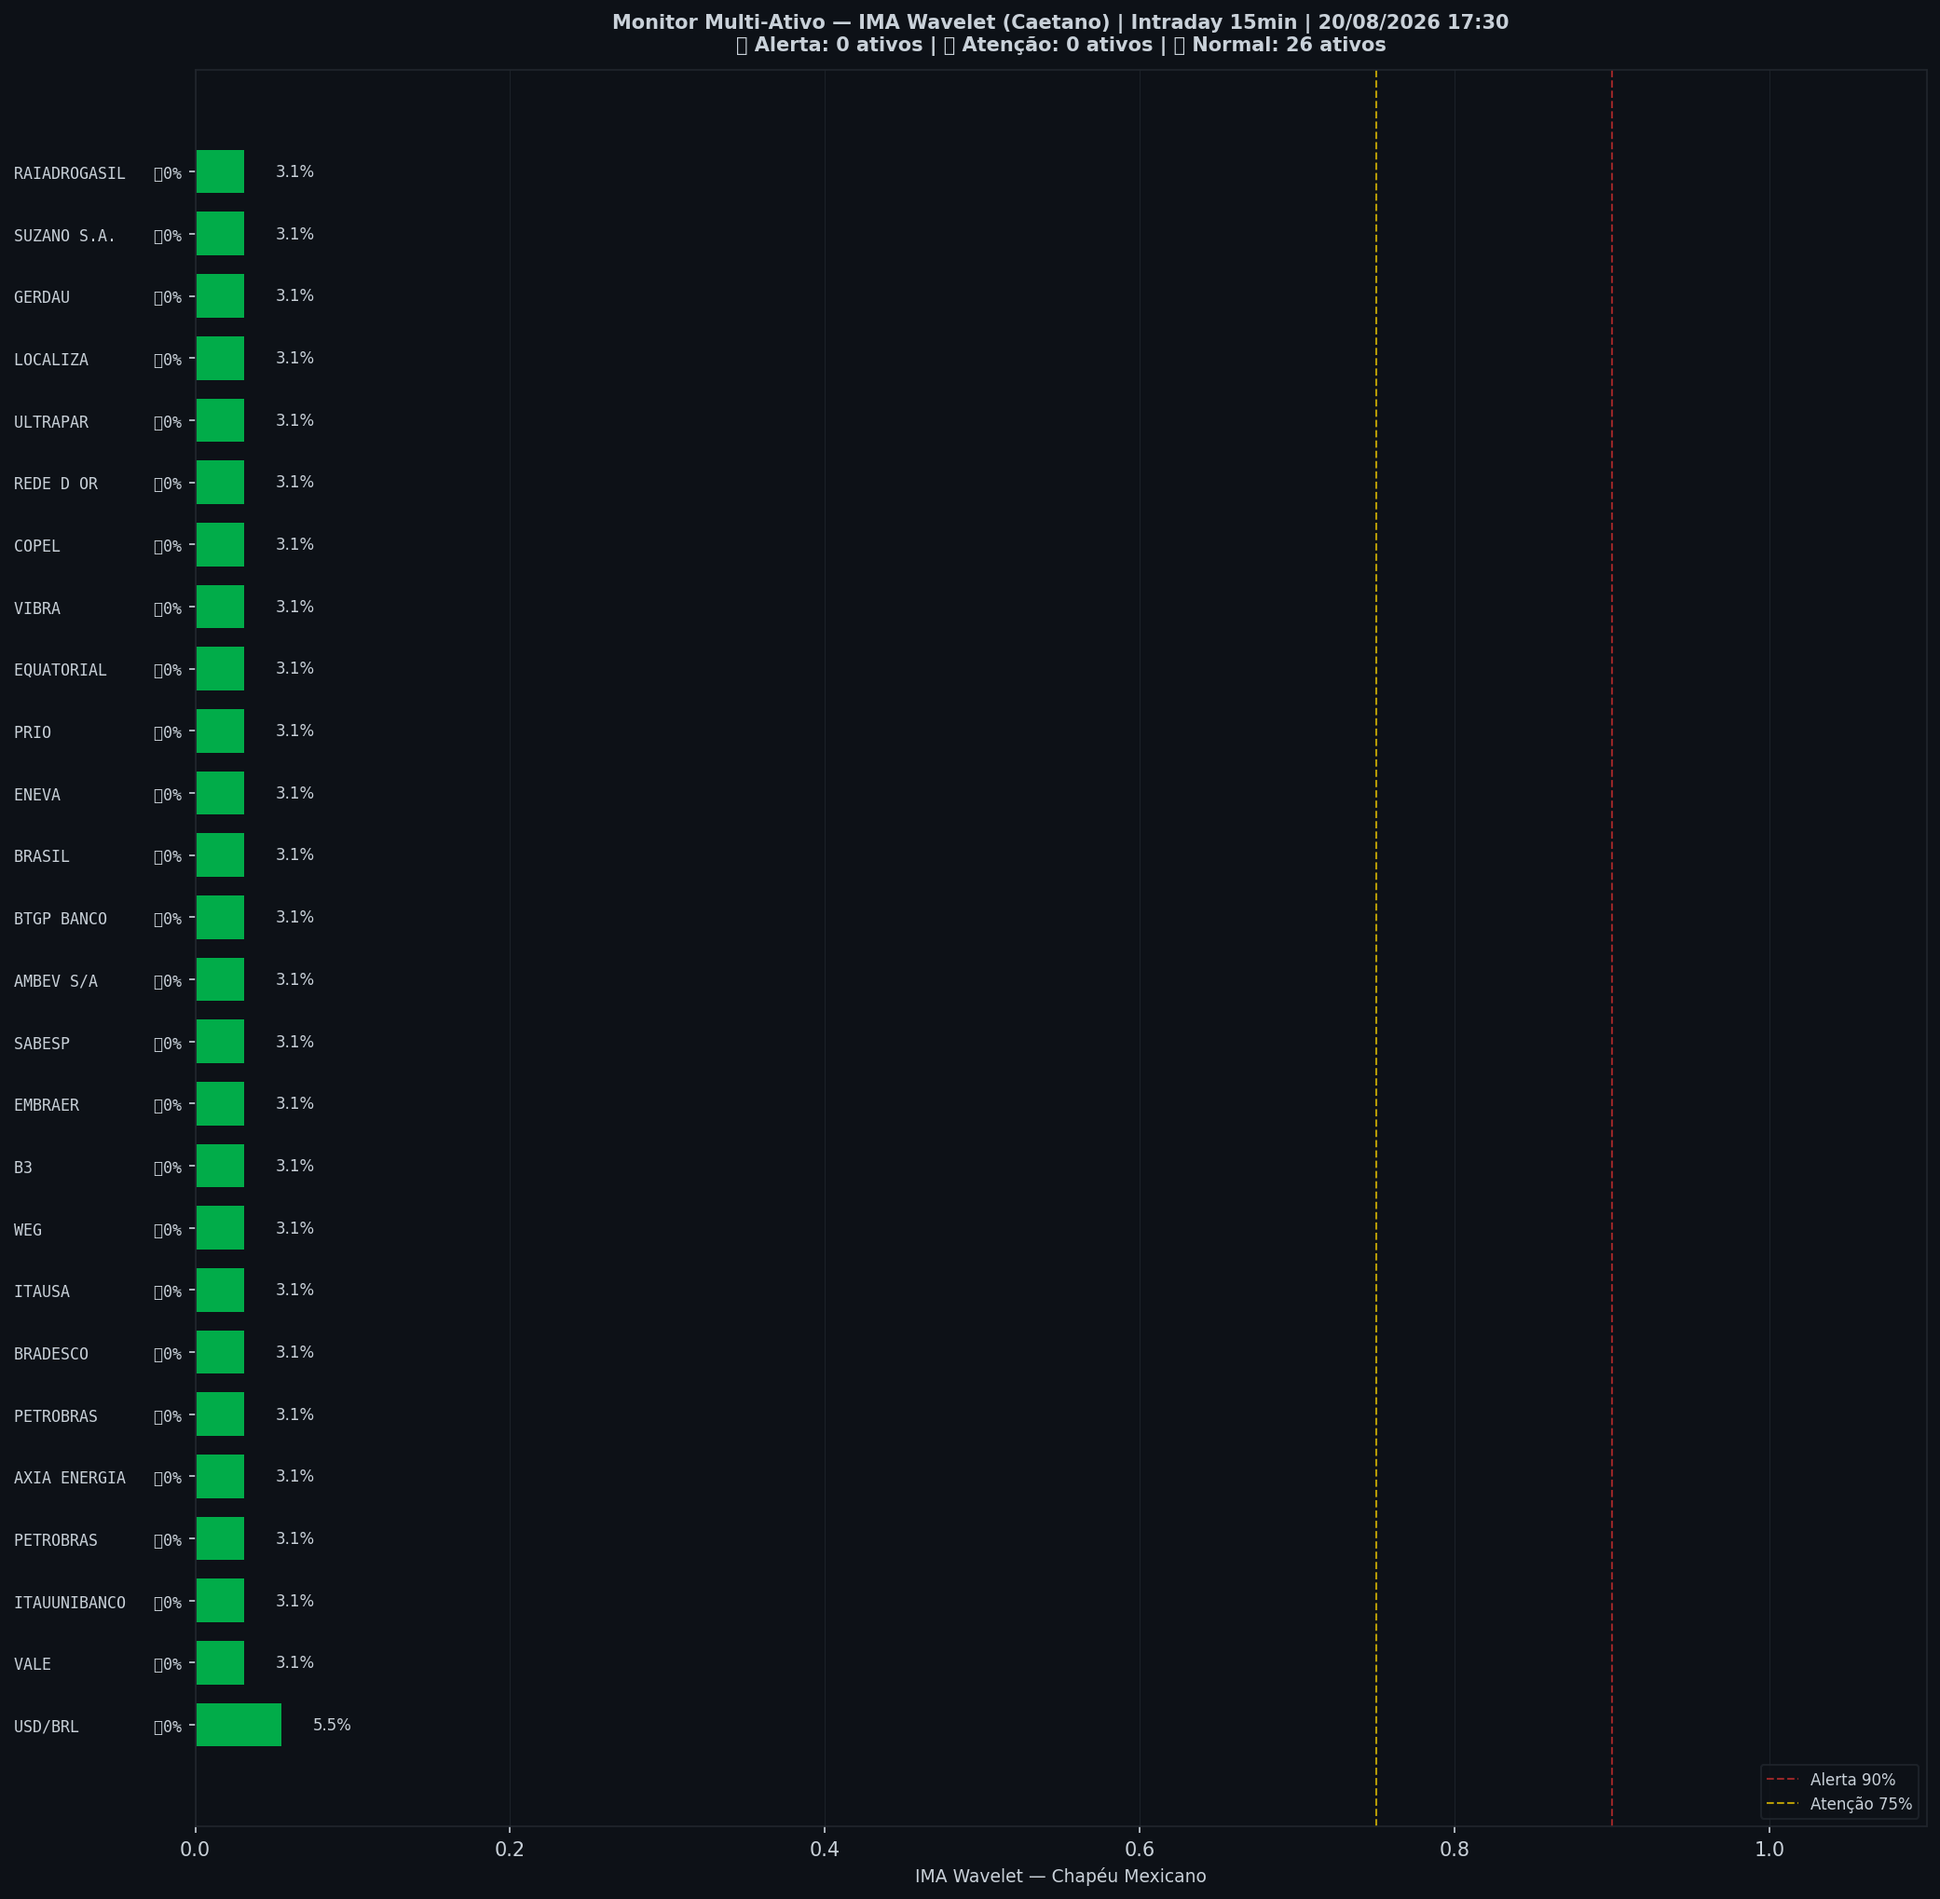
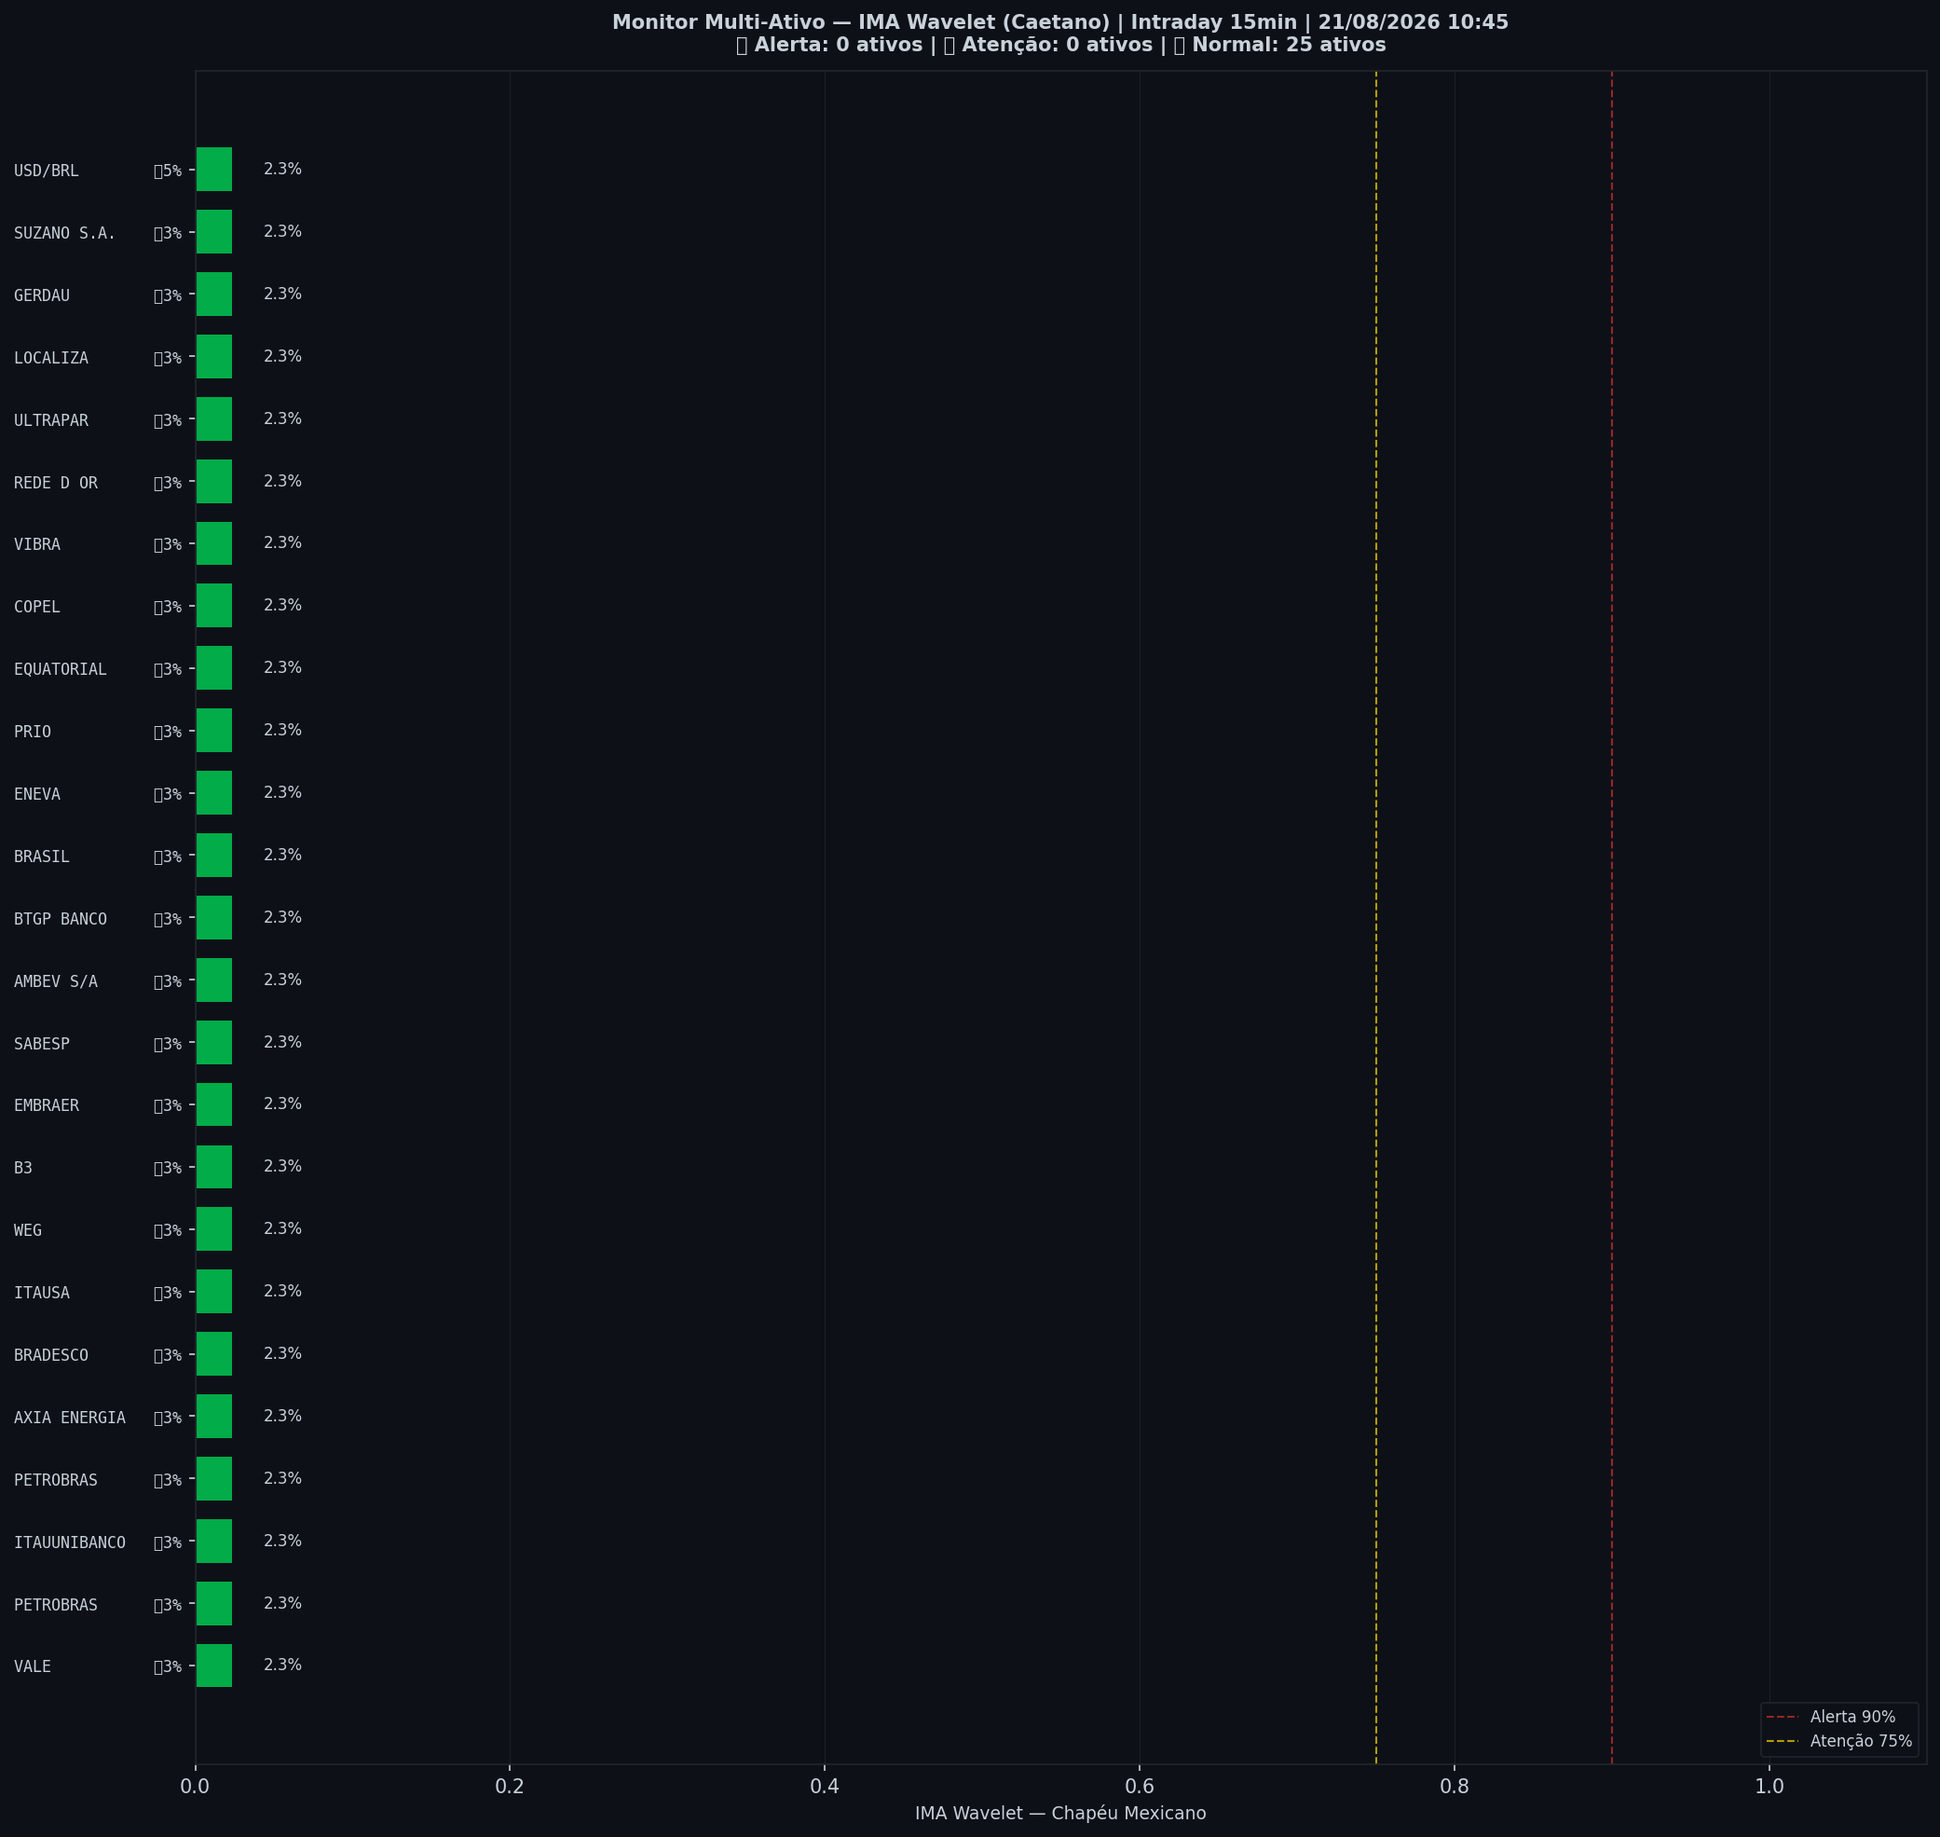
🤖 Auto: Sinal 21/08/2026 10:45

diff --git a/content/intraday/2026-08-21.md b/content/intraday/2026-08-21.md
@@ -1,0 +1,103 @@
+---
+title: "🟢 Intraday 21/08/2026 10:00 BRT — VERDE"
+date: 2026-08-21
+tags: [intraday]
+---
+
+> [!success] 🟢 **VERDE** — Risco 2% · ▲ +2 p.p. vs leitura anterior
+> `░░░░░░░░░░░░░░░░░░░░`
+> Mercado sem sinais relevantes de estresse.
+
+
+| Indicador | Valor |
+|---|---|
+| 🔴 ζ Crash — severidade da queda em curso | **2%** |
+| 🔵 ζ Entrada — estrutura de fundo | 21% |
+| 🫧 LPPL DS-Confidence | 0% |
+| 📊 Ibovespa | 168.836 pts |
+
+![Gráfico do sinal](../graficos/sinal_intraday.png)
+
+## Últimos 30 pregões
+
+| Data | Zona | Risco | IMA Crash | Entrada | LPPL |
+|---|---|---|---|---|---|
+| 2026-08-21 10:00 | 🟢 VERDE | **2%** | 2% | 21% | 0% |
+| 2026-08-20 16:45 | 🟢 VERDE | **0%** | 0% | 22% | 0% |
+| 2026-08-20 16:30 | 🟢 VERDE | **0%** | 0% | 20% | 0% |
+| 2026-08-20 16:15 | 🟢 VERDE | **0%** | 0% | 15% | 0% |
+| 2026-08-20 16:00 | 🟢 VERDE | **0%** | 0% | 11% | 0% |
+| 2026-08-20 15:45 | 🟢 VERDE | **0%** | 0% | 11% | 0% |
+| 2026-08-20 15:30 | 🟢 VERDE | **0%** | 0% | 15% | 0% |
+| 2026-08-20 15:15 | 🟢 VERDE | **0%** | 0% | 16% | 0% |
+| 2026-08-20 15:00 | 🟢 VERDE | **0%** | 0% | 18% | 0% |
+| 2026-08-20 14:45 | 🟢 VERDE | **0%** | 0% | 18% | 0% |
+| 2026-08-20 14:30 | 🟢 VERDE | **0%** | 0% | 15% | 0% |
+| 2026-08-20 14:15 | 🟢 VERDE | **1%** | 1% | 12% | 0% |
+| 2026-08-20 14:00 | 🟢 VERDE | **1%** | 1% | 10% | 0% |
+| 2026-08-20 13:45 | 🟢 VERDE | **0%** | 0% | 7% | 0% |
+| 2026-08-20 13:30 | 🟢 VERDE | **3%** | 3% | 6% | 0% |
+| 2026-08-20 13:15 | 🟢 VERDE | **9%** | 9% | 4% | 0% |
+| 2026-08-20 13:00 | 🟢 VERDE | **16%** | 16% | 2% | 0% |
+| 2026-08-20 12:45 | 🟢 VERDE | **20%** | 20% | 1% | 0% |
+| 2026-08-20 12:30 | 🟢 VERDE | **21%** | 21% | 0% | 0% |
+| 2026-08-20 12:15 | 🟢 VERDE | **20%** | 20% | 0% | 0% |
+| 2026-08-20 12:00 | 🟢 VERDE | **16%** | 16% | 1% | 0% |
+| 2026-08-20 11:45 | 🟢 VERDE | **12%** | 12% | 2% | 0% |
+| 2026-08-20 11:30 | 🟢 VERDE | **8%** | 8% | 1% | 0% |
+| 2026-08-20 11:15 | 🟢 VERDE | **6%** | 6% | 0% | 0% |
+| 2026-08-20 11:00 | 🟢 VERDE | **5%** | 5% | 2% | 0% |
+| 2026-08-20 10:45 | 🟢 VERDE | **2%** | 2% | 3% | 0% |
+| 2026-08-20 10:30 | 🟢 VERDE | **2%** | 2% | 3% | 0% |
+| 2026-08-20 10:15 | 🟢 VERDE | **2%** | 2% | 3% | 0% |
+| 2026-08-20 10:00 | 🟢 VERDE | **2%** | 2% | 1% | 0% |
+| 2026-08-19 16:45 | 🟢 VERDE | **2%** | 2% | 1% | 0% |
+
+## Monitor Multi-Ativo
+
+**0% dos ativos em tensão** (0🔴 0🟡) — quanto mais ativos disparam juntos, mais confiável o sinal.
+
+| Zona | Ativo | Setor | IMA Crash | IMA Entrada |
+|---|---|---|---|---|
+| 🟢 | **VALE** | Mineração | 2.3% | 3.1% |
+| 🟢 | **PETROBRAS** | Petróleo | 2.3% | 3.1% |
+| 🟢 | **ITAUUNIBANCO** | Financeiro | 2.3% | 3.1% |
+| 🟢 | **PETROBRAS** | Petróleo | 2.3% | 3.1% |
+| 🟢 | **AXIA ENERGIA** | Energia | 2.3% | 3.1% |
+| 🟢 | **BRADESCO** | Financeiro | 2.3% | 3.1% |
+| 🟢 | **ITAUSA** | Financeiro | 2.3% | 3.1% |
+| 🟢 | **WEG** | Industrial | 2.3% | 3.1% |
+| 🟢 | **B3** | Financeiro | 2.3% | 3.1% |
+| 🟢 | **EMBRAER** | Outros | 2.3% | 3.1% |
+| 🟢 | **SABESP** | Saneamento | 2.3% | 3.1% |
+| 🟢 | **AMBEV S/A** | Consumo | 2.3% | 3.1% |
+| 🟢 | **BTGP BANCO** | Financeiro | 2.3% | 3.1% |
+| 🟢 | **BRASIL** | Financeiro | 2.3% | 3.1% |
+| 🟢 | **ENEVA** | Energia | 2.3% | 3.1% |
+| 🟢 | **PRIO** | Petróleo | 2.3% | 3.1% |
+| 🟢 | **EQUATORIAL** | Energia | 2.3% | 3.1% |
+| 🟢 | **COPEL** | Energia | 2.3% | 3.1% |
+| 🟢 | **VIBRA** | Energia | 2.3% | 3.1% |
+| 🟢 | **REDE D OR** | Saúde | 2.3% | 3.1% |
+| 🟢 | **ULTRAPAR** | Outros | 2.3% | 3.1% |
+| 🟢 | **LOCALIZA** | Aluguel | 2.3% | 3.1% |
+| 🟢 | **GERDAU** | Siderurgia | 2.3% | 3.1% |
+| 🟢 | **SUZANO S.A.** | Papel/Celulose | 2.3% | 3.1% |
+| 🟢 | **USD/BRL** | Câmbio | 2.3% | 4.7% |
+
+![Monitor multi-ativo](../graficos/multi_intraday.png)
+
+*Página atualizada em 21/08/2026 10:45 BRT (leitura da barra de 2026-08-21 10:00 BRT).*
+
+> [!info]- Como interpretar (clique para expandir)
+> - **ζ Crash**: fração dos coeficientes wavelet acima do corte (Caetano & Yoneyama 2009). Escala absoluta: ζ=0,90 = 90% dos coeficientes anômalos — historicamente, quedas com ζ≥0,90 foram mais fundas e mais longas. **Mede a severidade do movimento em curso, não prevê o início da queda.**
+> - **ζ Entrada**: coeficientes negativos além do corte — estrutura de fundo, possível região de compra.
+> - **LPPL DS-Confidence**: fração de janelas (60–504 pregões) em que o modelo de bolha de Sornette produz um ajuste válido. 30% já é relevante; acima de 50% é forte evidência de estrutura de bolha.
+> - **Zonas com histerese**: o sinal só muda de zona ao cruzar o limiar de entrada, e só volta ao cruzar o de saída — evita flip-flop diário.
+
+
+---
+*Sinal de Crise B3 v4 · IMA Wavelet ([Caetano & Yoneyama, Physica-A 2007](https://doi.org/10.1016/j.physa.2007.03.054)) + LPPL DS-Confidence (Sornette, ETH-Zurich) · [Metodologia](metodologia) · [Histórico](historico)*
+
+> [!quote]- Aviso
+> Estudo acadêmico. Não constitui recomendação de investimento.

diff --git a/content/index.md b/content/index.md
@@ -1,6 +1,6 @@
 ---
 title: Sinal de Crise B3
-date: 2026-08-20
+date: 2026-08-21
 tags: [home]
 ---
 
@@ -8,21 +8,21 @@ tags: [home]
 
 Monitoramento diário e intraday do Ibovespa — **IMA Wavelet** (Prof. Marco Antonio Leonel Caetano, ITA/INSPER) + **LPPL DS-Confidence** (Prof. Didier Sornette, ETH-Zurich).
 
-*Última atualização: 20/08/2026 19:00 BRT · ^BVSP · Diário D1 · v4*
+*Última atualização: 21/08/2026 10:45 BRT · ^BVSP · Intraday 15min · v4*
 
-> [!success] 🟢 **VERDE** — Risco 0% · ＝ +0 p.p. vs leitura anterior
+> [!success] 🟢 **VERDE** — Risco 2% · ▲ +2 p.p. vs leitura anterior
 > `░░░░░░░░░░░░░░░░░░░░`
 > Mercado sem sinais relevantes de estresse.
 
 
 | Indicador | Valor |
 |---|---|
-| 🔴 ζ Crash — severidade da queda em curso | **0%** |
-| 🔵 ζ Entrada — estrutura de fundo | 27% |
+| 🔴 ζ Crash — severidade da queda em curso | **2%** |
+| 🔵 ζ Entrada — estrutura de fundo | 21% |
 | 🫧 LPPL DS-Confidence | 0% |
-| 📊 Ibovespa | 167.927 pts |
+| 📊 Ibovespa | 168.836 pts |
 
-**Multi-ativo:** 0% em tensão (0🔴 0🟡 de 26 ativos)
+**Multi-ativo:** 0% em tensão (0🔴 0🟡 de 25 ativos)
 
 
 > [!tip]- Calibração v4 (backtest 15y)
@@ -32,13 +32,9 @@ Monitoramento diário e intraday do Ibovespa — **IMA Wavelet** (Prof. Marco An
 
 | Data | Zona | Risco | IMA | LPPL |
 |---|---|---|---|---|
-| [19 Aug 2026](diario/2026-08-19) | 🟢 VERDE | **0%** | 0% | 0% |
-| [18 Aug 2026](diario/2026-08-18) | 🟢 VERDE | **0%** | 0% | 0% |
-| [17 Aug 2026](diario/2026-08-17) | 🟢 VERDE | **0%** | 0% | 0% |
-| [16 Aug 2026](diario/2026-08-16) | 🟢 VERDE | **0%** | 0% | 0% |
-| [13 Aug 2026](diario/2026-08-13) | 🟢 VERDE | **0%** | 0% | 0% |
-| [12 Aug 2026](diario/2026-08-12) | 🟢 VERDE | **0%** | 0% | 0% |
-| [11 Aug 2026](diario/2026-08-11) | 🟢 VERDE | **0%** | 0% | 0% |
+| [21 Aug 2026](diario/2026-08-21) | 🟢 VERDE | **2%** | 2% | 0% |
+| [20 Aug 2026](diario/2026-08-20) | 🟢 VERDE | **0%** | 0% | 0% |
+| [19 Aug 2026](diario/2026-08-19) | 🟢 VERDE | **2%** | 2% | 0% |
 
 ## Navegação
 

diff --git a/content/historico.md b/content/historico.md
@@ -7,6 +7,7 @@ tags: [historico]
 
 | Data | Modo | Zona | Risco | IMA | LPPL |
 |---|---|---|---|---|---|
+| 2026-08-21 10:00 | intraday | 🟢 VERDE | 2% | 2% | 0% |
 | 2026-08-19 | diario | 🟢 VERDE | 0% | 0% | 0% |
 | 2026-08-20 16:45 | intraday | 🟢 VERDE | 0% | 0% | 0% |
 | 2026-08-20 16:30 | intraday | 🟢 VERDE | 0% | 0% | 0% |
